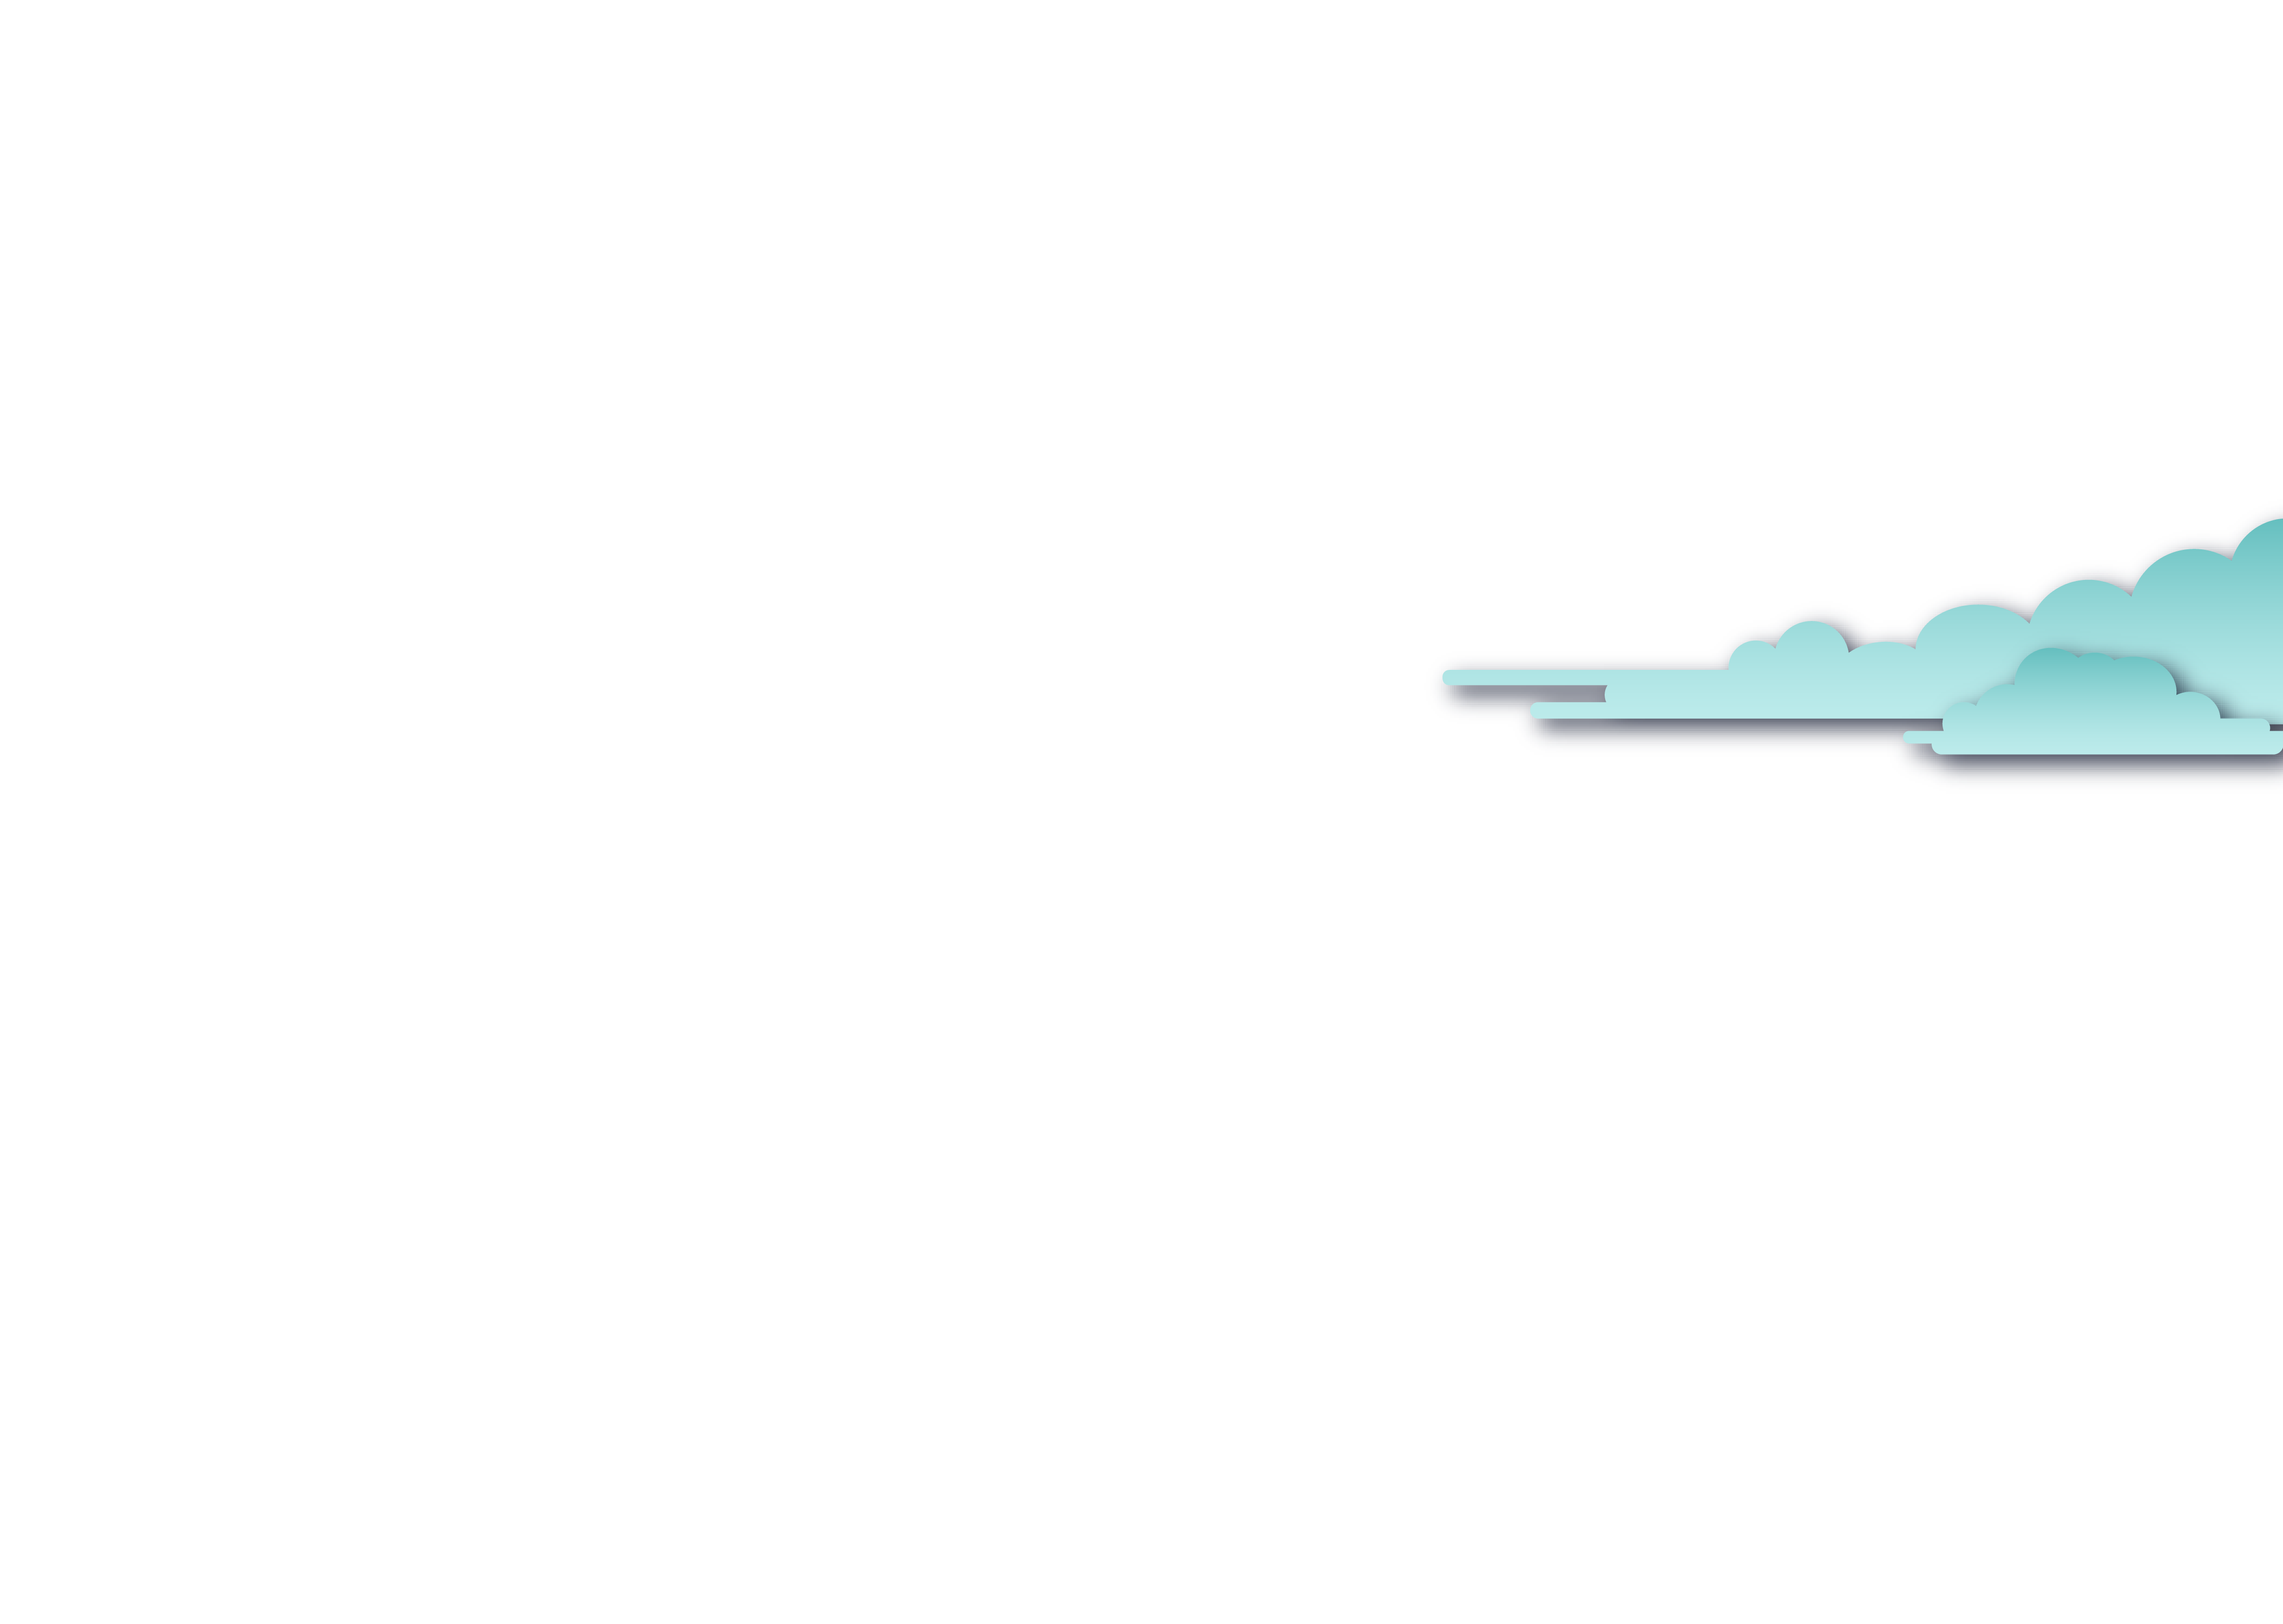
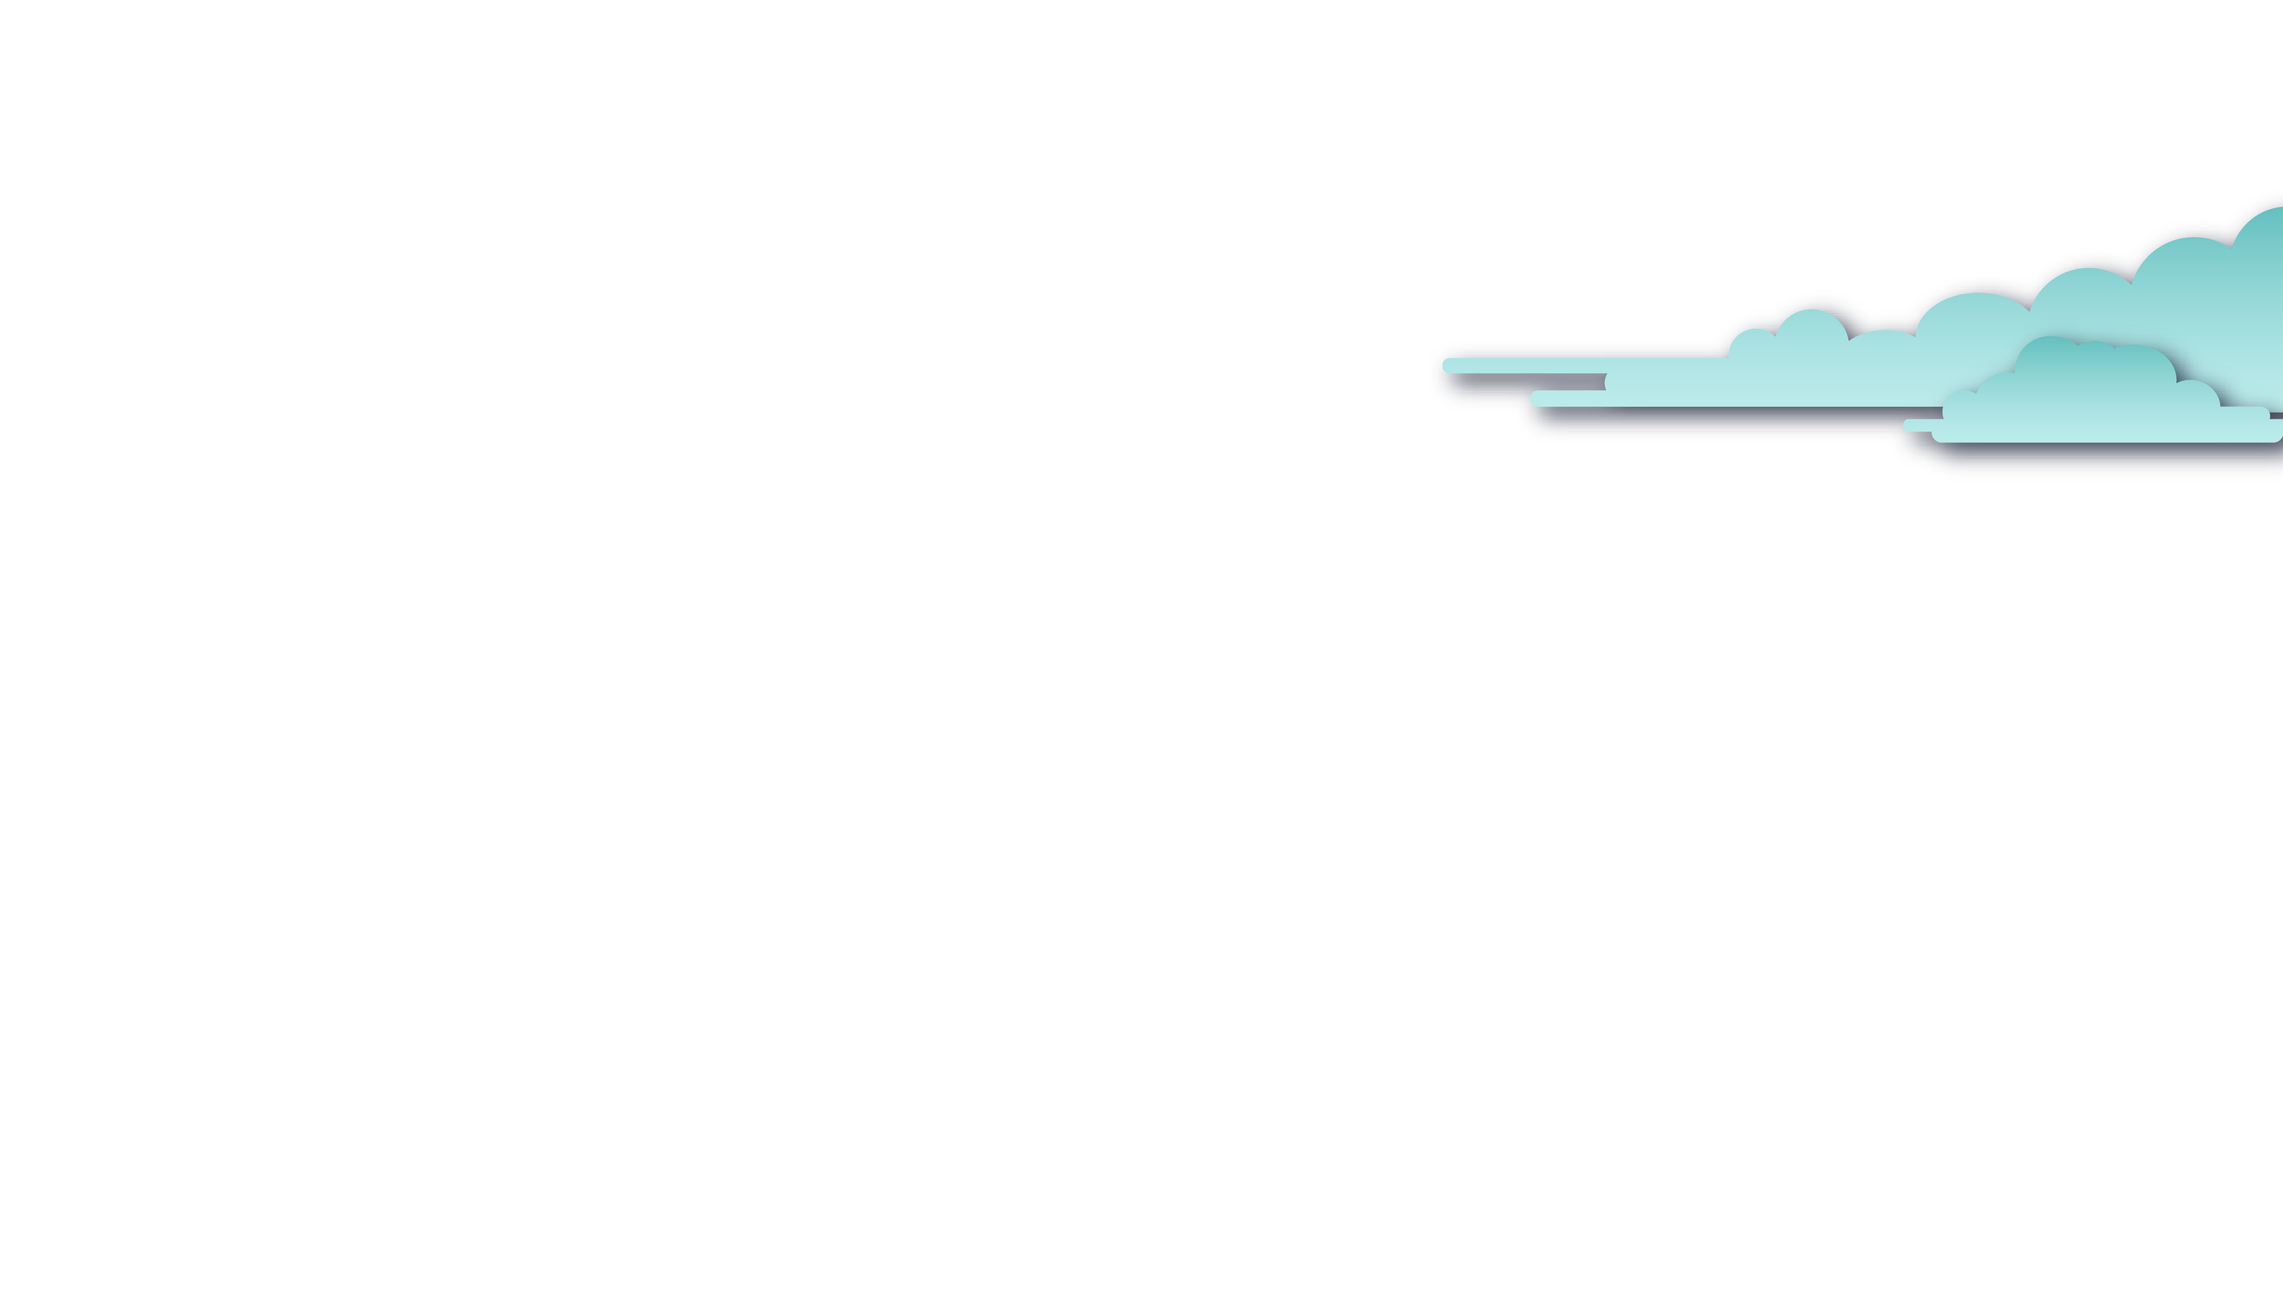
quick minor tweaks of image spacing and link hovers

Changed region(s): [[0.6239, 0.1545, 1.0, 0.4943]]

diff --git a/main.css b/main.css
@@ -29,6 +29,7 @@ header {
     display: flex;
     align-items: end;
     justify-content: space-between;
+    z-index: 15;
 }
 
 .logo {
@@ -78,6 +79,10 @@ nav {
     max-height: 2em;
 }
 
+.topnav button:hover {
+    color: var(--pop);
+}
+
 .hamburger {
     display: none;
 }
@@ -116,7 +121,10 @@ nav {
     margin: 0;
     text-transform: none;
 }
-
+#submenu a:hover, 
+#submenu a:active {
+    color: var(--pop);
+}
 
 .topnav img {
     max-width: 2em;
@@ -291,13 +299,7 @@ input::placeholder {
 }
 
 #MIF-cover {
-    max-height: 85vh;
-}
-
-#MIF-cover img {
-    margin-top: -250px;
     margin-bottom: 50px;
-    min-width: 0;
 }
 
 #mail-form {
